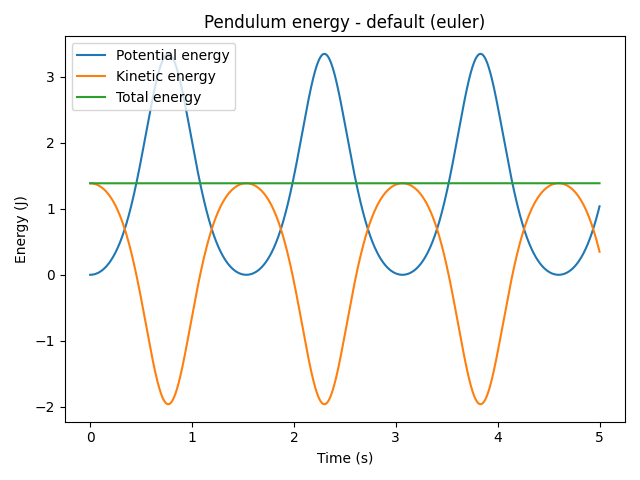
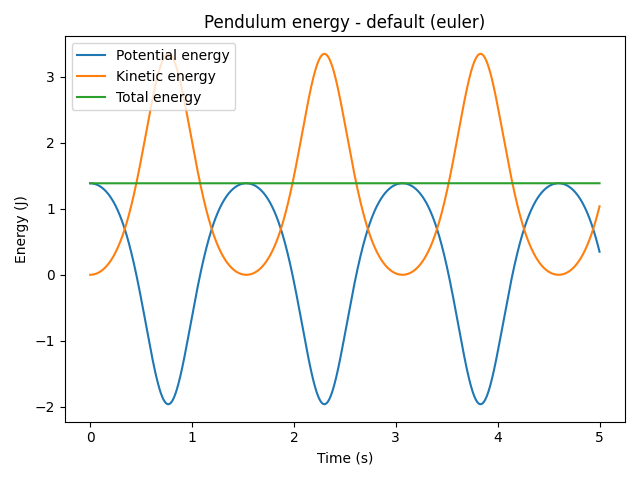
bug_found_in_PE_KE_pendulum_euler

diff --git a/assignment_0.py b/assignment_0.py
@@ -36,7 +36,7 @@ for step, t in enumerate(time_traj[:-1]):
 # constant. If we turn on the damping coefficient, it should slowly bleed out energy until it comes to
 # a stand-still.
 
-potential_energy, kinetic_energy = model.calculate_energy(state_traj, params)
+kinetic_energy, potential_energy = model.calculate_energy(state_traj, params)
 
 plt.figure()
 plt.plot(time_traj, potential_energy, label="Potential energy")

diff --git a/models/pendulum.py b/models/pendulum.py
@@ -39,5 +39,5 @@ def calculate_energy(state, params):
     angular_velocity = state[1]
 
     kinetic_energy = 0.5 * mass * (length * angular_velocity) ** 2
-    potential_energy = mass * gravity * length * (1-np.cos(angle))
+    potential_energy = mass * gravity * length * (np.cos(angle))
     return kinetic_energy, potential_energy
